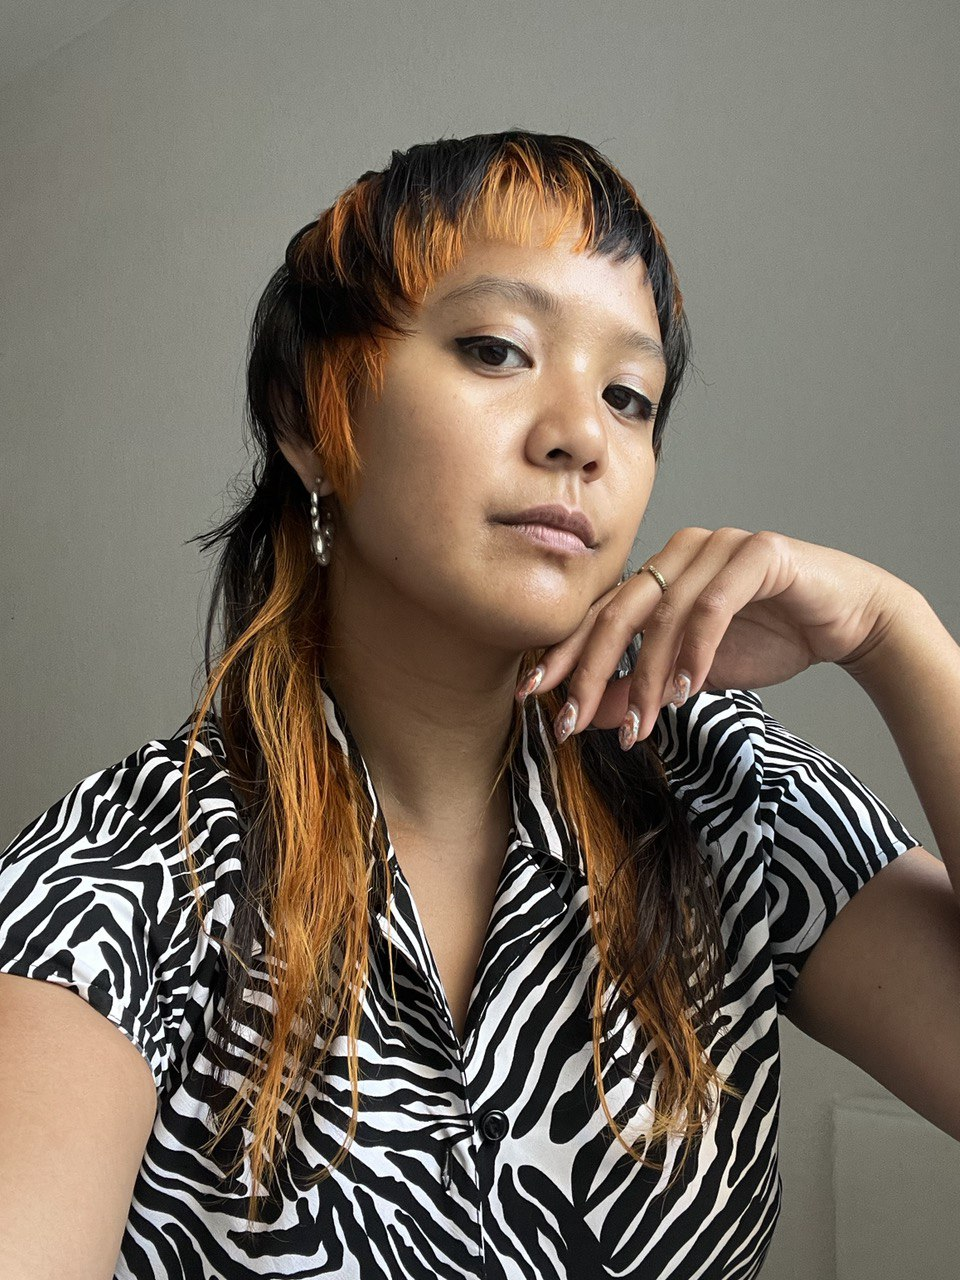
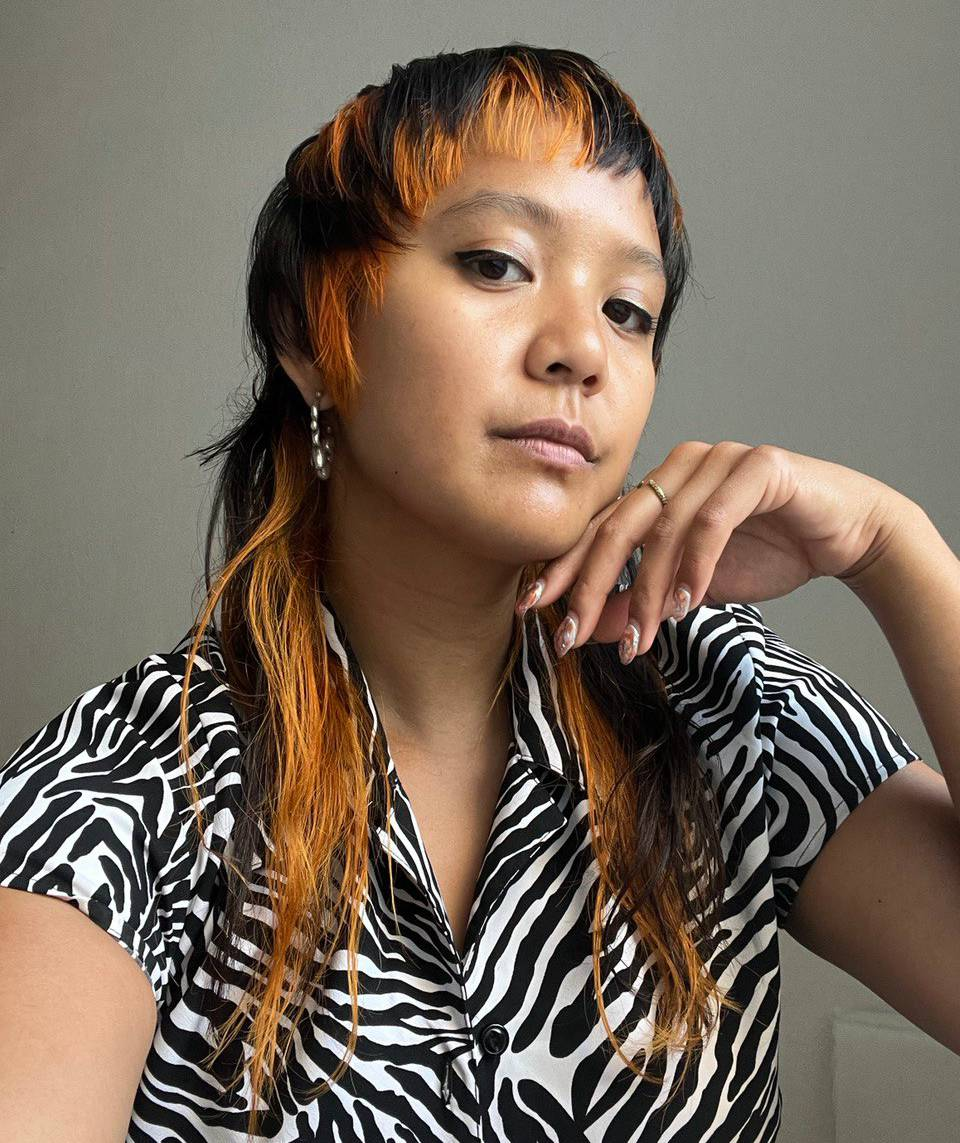
headshot resize, bio update, small style adjustments

diff --git a/index.html b/index.html
@@ -45,9 +45,8 @@
 			</div>
 
 			<div class="text">
-				<p>Hi there! My name is Alexis (she/they). I am an experienced Pilipinx American project manager, producer, and cultural programmer.</p>
-				<p>I organise large-scale, immersive art installations at LAS Art Foundation; create culinary intervention and performances through my artistic practice, Ulam; and have presented emerging artists working in contemporary dance and performance art through the CURRENT SESSIONS.</p>
-				<p>From NYC, now Berlin.</p>
+				<p>Hi there! My name is Alexis (she/they). I am a Berlin-based, Pilipinx-American project manager, cultural programmer, and multidisciplinary artist.</p>
+				<p class="last-p">I produce large-scale art exhibitions for <a target="_blank" href="http://www.las-art.foundation">LAS Art Foundation</a> and organize culinary interventions as <a target-"_blank" href="https://www.instagram.com/uuuuulam">Ulam</a>. From 2011-2018 in NYC, I presented 214 emerging artists in contemporary dance and performance through my curatorial series, the CURRENT SESSIONS.</p>
 			</div>
 
 			<ul class="social">

diff --git a/style.css b/style.css
@@ -32,20 +32,28 @@ p, li {
 	}
 }
 
-::-moz-selection { color: #ebff33; }
-::selection { color: #ebff33; }
+.last-p { text-wrap: pretty; }
 
 a {
 	text-decoration: underline;
 	transition: color 0.1s ease-in-out;
-	color: black;
+	color: #000000;
+	text-decoration-color: #000000;
 }
-a:visited { text-decoration: underline; }
-a:hover { color: #ebff33 !important; }
+
+::-moz-selection { color: #000000; }
+::selection { color: #000000; }
+a:visited { color: #000000; }
+
+a:hover {
+	background-color: #ebff33;
+	text-decoration-color: #ebff33;
+}
+
 
 .header {
 	height: 70px;
-	padding-bottom: 5px;
+	padding-bottom: 10px;
 }
 
 hr {
@@ -139,14 +147,14 @@ hr {
 
 .image {
 	float: left;
-	width: 315px;
-	margin: 5px 30px 5px 0px; /*top right bottom left*/
+	width: 287px;
+	margin: 0px 35px 0px 0px; /*top right bottom left*/
 }
 img {
 	padding-top: 6px;
-	width: 315px;
+	width: 287px;
 }
-@media screen and (max-width: 500px) {
+@media screen and (max-width: 600px) {
 	.image {
 		float: none;
 		width: 100%;
